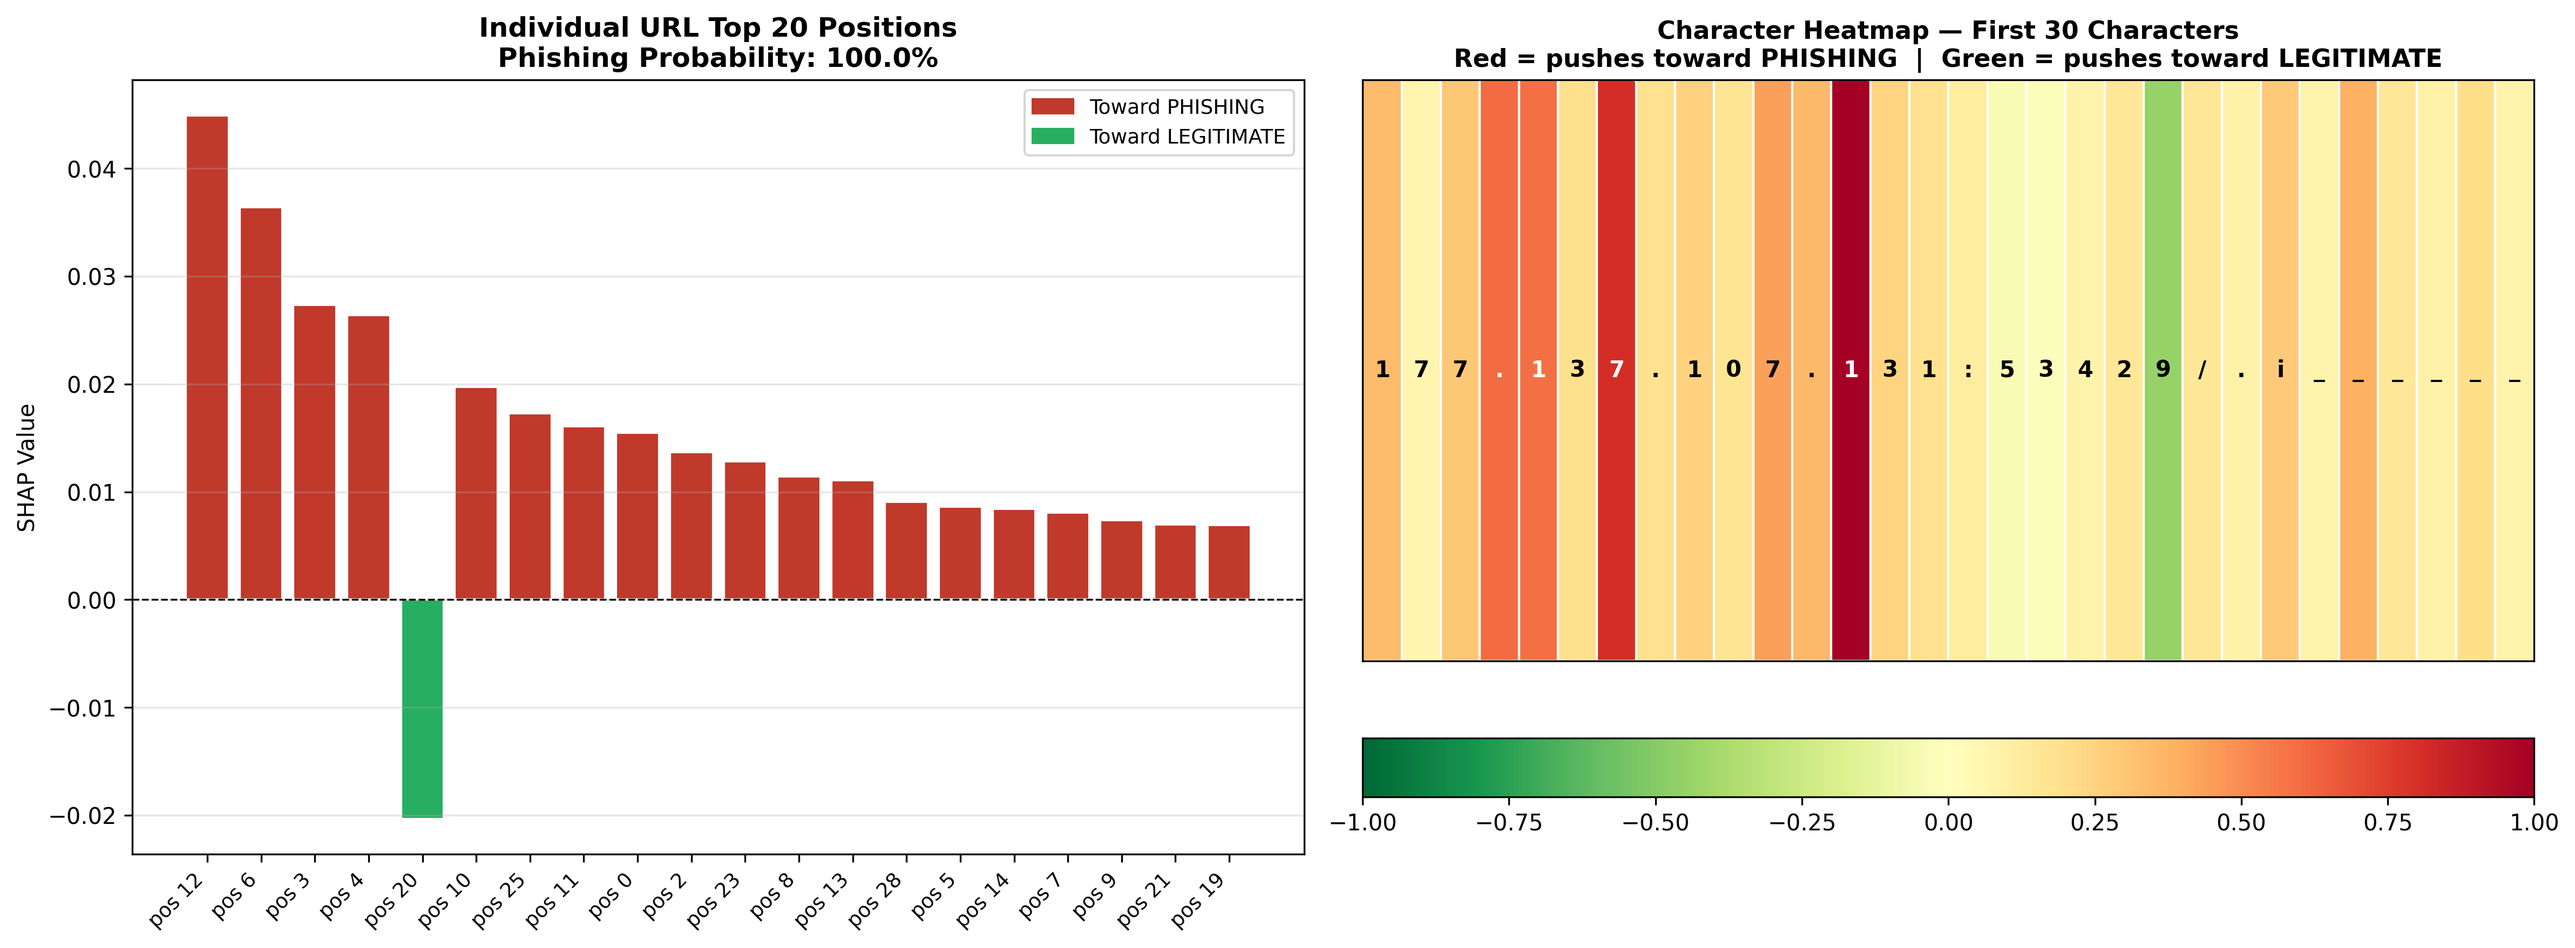
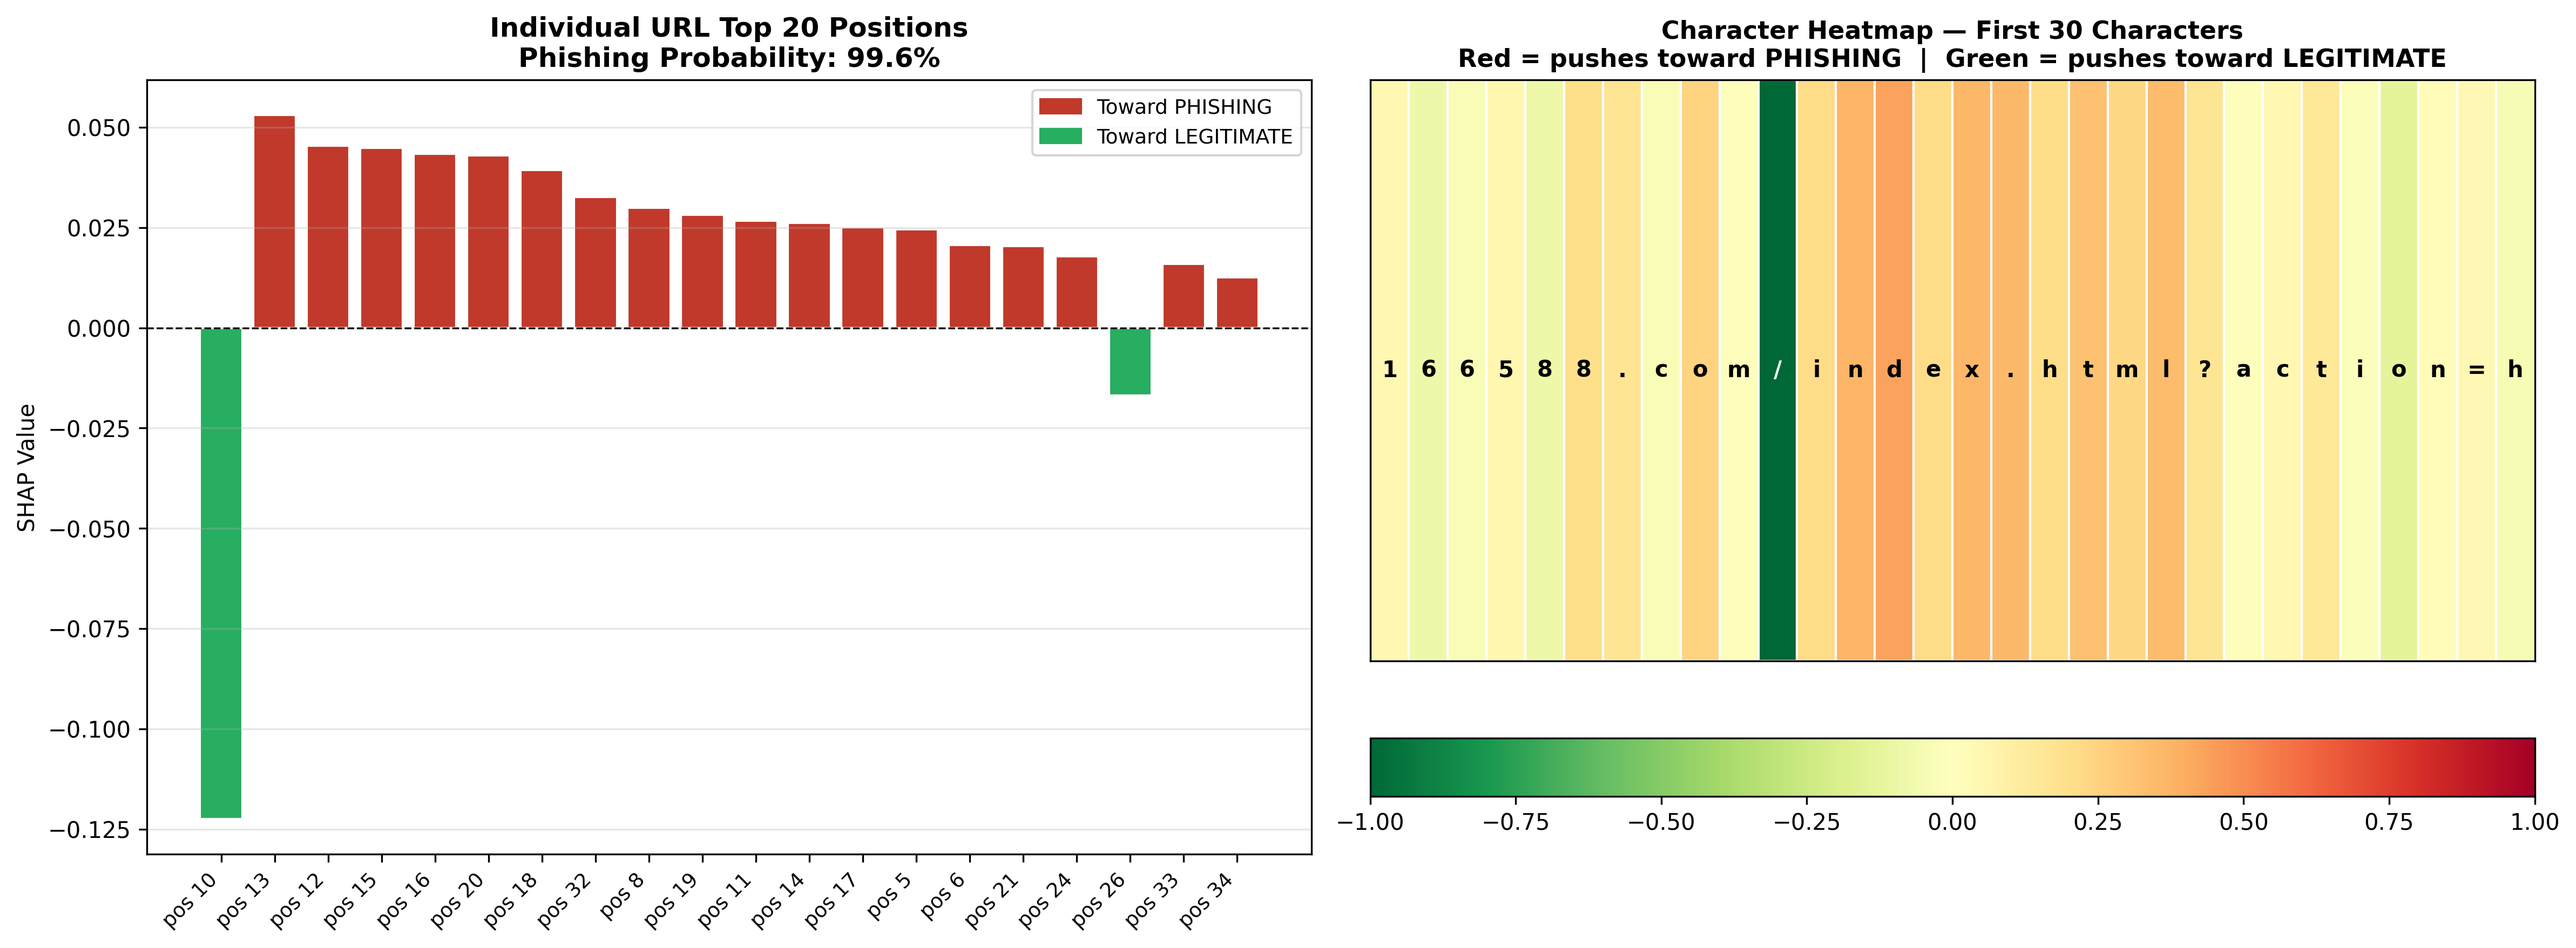
models rerun

diff --git a/shap_explainability.py b/shap_explainability.py
@@ -1,4 +1,8 @@
-import os, time
+
+#PhishGuard-GH — SHAP GradientExplainer
+
+
+import os, time, re
 import numpy as np
 import matplotlib
 matplotlib.use("Agg")
@@ -12,16 +16,30 @@ import json
 os.environ["TF_ENABLE_ONEDNN_OPTS"] = "0"
 os.environ["TF_CPP_MIN_LOG_LEVEL"] = "3"
 
-
 from keras.layers import (Input, Conv1D, MaxPooling1D, Bidirectional,
                           LSTM, Dense, Dropout, Concatenate)
 
 print("SHAP GradientExplainer")
 
-#Configuration
-N_EXPLAIN    = 200    # URLs to explain (increase to 100 if you have time)
-N_BACKGROUND = 200    # Background samples for SHAP (more = more accurate)
+# Configuration
+N_EXPLAIN    = 200
+N_BACKGROUND = 200
 MAX_LEN      = 200
+
+# Character decoding table (inverse of CHAR_TO_INT in train_hash.py)
+int_to_chr = {i - 31: chr(i) for i in range(32, 127)}
+
+
+def decode_seq(seq):
+    """Turn an integer-encoded sequence back into its URL string."""
+    return ''.join(int_to_chr.get(int(c), '') for c in seq if int(c) != 0)
+
+
+def is_ip_host(url):
+    """True if the URL's hostname is a bare IPv4 literal (scheme already stripped)."""
+    host = url.split('/')[0].split(':')[0]
+    return bool(re.fullmatch(r'\d{1,3}(\.\d{1,3}){3}', host))
+
 
 # Load saved files
 print("\n Loading saved files")
@@ -29,12 +47,11 @@ X_test     = np.load("X_test.npy")
 y_test     = np.load("y_test.npy")
 background = np.load("X_train_background.npy")[:N_BACKGROUND]
 y_prob     = np.load("y_prob.npy")
-# y_prob_sample is set after balanced_idx is built in step [4/7]
-y_prob_sample = None  # placeholder — assigned after balancing below
+y_prob_sample = None  # assigned after balancing below
 print(f"    X_test shape     : {X_test.shape}")
 print(f"    Background shape : {background.shape}")
 
-#Load original model
+# Load original model
 print("\n Loading model")
 if os.path.exists("phishguard_gh_model.keras"):
     original = keras.models.load_model("phishguard_gh_model.keras", compile=False)
@@ -42,7 +59,6 @@ else:
     original = keras.models.load_model("phishguard_gh_model.h5", compile=False)
 print(f"    Model input shape: {original.input_shape}")
 
-# Reference named layers
 emb_layer = original.get_layer("char_embedding")
 conv_k3   = original.get_layer("conv_k3")
 conv_k5   = original.get_layer("conv_k5")
@@ -51,11 +67,10 @@ bilstm    = original.get_layer("bilstm")
 dense64   = original.get_layer("dense64")
 out_layer = original.get_layer("output")
 
-EMBED_DIM = emb_layer.output_dim   # 64
+EMBED_DIM = emb_layer.output_dim
 print(f"    EMBED_DIM={EMBED_DIM}, MAX_LEN={MAX_LEN}")
 
-#Build float input model for SHAP
-# SHAP GradientExplainer needs to differentiate through the input.
+# Build float-input model for SHAP
 print("\nBuilding float input model for SHAP")
 emb_input = Input(shape=(MAX_LEN, EMBED_DIM), name="emb_input", dtype="float32")
 c3  = Conv1D(conv_k3.filters, conv_k3.kernel_size[0],
@@ -64,21 +79,23 @@ c5  = Conv1D(conv_k5.filters, conv_k5.kernel_size[0],
              activation="relu", padding="same", name="f_conv_k5")(emb_input)
 x   = Concatenate(name="f_merge")([c3, c5])
 x   = MaxPooling1D(pool_size=maxpool.pool_size[0], name="f_maxpool")(x)
-x   = Bidirectional(LSTM(64), name="f_bilstm")(x)   # 64 = LSTM units
-x   = Dropout(0.4, name="f_dropout")(x)
+# LSTM units read from the trained model so this stays correct if the
+# architecture is retuned again (currently 64).
+_lstm_units = bilstm.forward_layer.units
+x   = Bidirectional(LSTM(_lstm_units), name="f_bilstm")(x)
+x   = Dropout(0.5, name="f_dropout")(x)
 x   = Dense(dense64.units, activation="relu", name="f_dense64")(x)
 out = Dense(1, activation="sigmoid", name="f_output")(x)
 float_model = keras.Model(inputs=emb_input, outputs=out, name="PhishGuard_Float")
 
-# Copy weights from original model into float model
 float_model.get_layer("f_conv_k3").set_weights(conv_k3.get_weights())
 float_model.get_layer("f_conv_k5").set_weights(conv_k5.get_weights())
 float_model.get_layer("f_bilstm").set_weights(bilstm.get_weights())
 float_model.get_layer("f_dense64").set_weights(dense64.get_weights())
 float_model.get_layer("f_output").set_weights(out_layer.get_weights())
-print("    Float model built and weights copied")
+print(f"    Float model built (BiLSTM units = {_lstm_units}) and weights copied")
 
-# Verify the float model gives same predictions as original
+# Verify float model matches original
 emb_fn   = original.get_layer("char_embedding")
 sample5  = X_test[:5].astype(np.int32)
 emb5     = emb_fn(tf.constant(sample5, dtype=tf.int32)).numpy()
@@ -86,14 +103,11 @@ orig_p   = original.predict(X_test[:5].astype(np.float32), verbose=0).flatten()
 float_p  = float_model.predict(emb5, verbose=0).flatten()
 max_diff = float(np.max(np.abs(orig_p - float_p)))
 print(f"    Prediction match check (should be ~0): {max_diff:.8f}")
-if max_diff < 0.01:
-    print("    Float model verified correctly")
-else:
-    print("    WARNING: difference > 0.01 check weight copying")
+print("    Float model verified correctly" if max_diff < 0.01
+      else "    WARNING: difference > 0.01 — check weight copying")
 
-#Prepare SHAP inputs
+# Prepare SHAP inputs
 print("\nPreparing SHAP inputs...")
-# Select URLs to explain: balanced  half phishing, half legitimate
 half = N_EXPLAIN // 2
 phish_idx = np.where(y_test == 1)[0][:half]
 legit_idx = np.where(y_test == 0)[0][:half]
@@ -104,77 +118,64 @@ np.random.shuffle(balanced_idx)
 X_sample = X_test[balanced_idx].astype(np.int32)
 y_sample = y_test[balanced_idx]
 bg_ints  = background[:N_BACKGROUND].astype(np.int32)
-
-# Now that balanced_idx is known, assign y_prob_sample correctly
 y_prob_sample = y_prob[balanced_idx]
 print(f"    Balanced sample: {(y_sample==1).sum()} phishing, {(y_sample==0).sum()} legitimate")
 
-# Convert integer sequences to float embeddings
-# SHAP will receive float embeddings (shape: N, 200, 64)
 X_emb_explain = emb_fn(tf.constant(X_sample, dtype=tf.int32)).numpy().astype(np.float32)
 X_emb_bg      = emb_fn(tf.constant(bg_ints,  dtype=tf.int32)).numpy().astype(np.float32)
-
 print(f"    Explain input shape : {X_emb_explain.shape}")
 print(f"    Background shape    : {X_emb_bg.shape}")
 
-# Run SHAP GradientExplainer
+# Run SHAP
 print(f"\n Running SHAP GradientExplainer...")
 print(f"    Background: {N_BACKGROUND} samples")
-print(f"    URLs to explain: {N_EXPLAIN}")
-print(f"    Counter updates every URL\n")
-
+print(f"    URLs to explain: {N_EXPLAIN}\n")
 
 explainer = shap.GradientExplainer(float_model, X_emb_bg)
-
 shap_values_list = []
 start = time.time()
 
 for i in range(N_EXPLAIN):
-    single_emb = X_emb_explain[i:i+1]   # shape: (1, 200, 64)
-    # shap_values returns array of shape (1, 200, 64) — one value per embedding dimension
+    single_emb = X_emb_explain[i:i+1]
     sv = explainer.shap_values(single_emb)
     if isinstance(sv, list):
-        sv = sv[0]   # for binary classification take index 0
-    # Collapse the embedding dimension: sum over 64 dims → shape (200,)
-    sv_collapsed = sv[0].sum(axis=-1)    # (200,)
+        sv = sv[0]
+    sv_collapsed = np.asarray(sv)[0]
+    while sv_collapsed.ndim > 1:              # collapse embedding dims -> (200,)
+        sv_collapsed = sv_collapsed.sum(axis=-1)
     shap_values_list.append(sv_collapsed)
 
     elapsed   = (time.time() - start) / 60
-    remaining = elapsed / (i+1) * (N_EXPLAIN - i - 1)
-    print(f"    URL {i+1:2d}/{N_EXPLAIN} | elapsed {elapsed:.1f}m | remaining -{remaining:.1f}m")
+    remaining = elapsed / (i + 1) * (N_EXPLAIN - i - 1)
+    print(f"    URL {i+1:3d}/{N_EXPLAIN} | elapsed {elapsed:.1f}m | remaining {remaining:.1f}m")
 
-shap_values = np.array(shap_values_list)  # (N_EXPLAIN, 200)
+shap_values = np.array(shap_values_list)      # (N_EXPLAIN, 200)
 np.save("shap_values.npy", shap_values)
 print(f"\n    SHAP complete. Values shape: {shap_values.shape}")
 print(f"    Saved: shap_values.npy")
 
 # Summary chart
 print("\nSaving SHAP summary chart")
-
-# Force-collapse to exactly 2D (N_EXPLAIN, 200) in case SHAP returned extra dims
 sv_2d = shap_values
 while sv_2d.ndim > 2:
     sv_2d = sv_2d.sum(axis=-1)
 print(f"    shap_values shape after collapse: {sv_2d.shape}")
 
-mean_abs  = np.abs(sv_2d).mean(axis=0).flatten()   # guaranteed 1D (200,)
+mean_abs  = np.abs(sv_2d).mean(axis=0).flatten()
 top20_idx = np.argsort(mean_abs)[-20:][::-1]
-bar_data  = mean_abs[top20_idx][::-1].tolist()      # plain Python list
+bar_data  = mean_abs[top20_idx][::-1].tolist()
+mean_val  = float(mean_abs.mean())
 
 fig, ax = plt.subplots(figsize=(10, 7))
-
-# Colors as explicit list of RGBA tuples — avoids all numpy broadcast issues
 bar_colors = [plt.cm.Reds(float(v)) for v in np.linspace(0.4, 0.9, 20).tolist()]
-
-ax.barh(list(range(20)), bar_data,
-        color=bar_colors[::-1], edgecolor="white", linewidth=0.5)
+ax.barh(list(range(20)), bar_data, color=bar_colors[::-1],
+        edgecolor="white", linewidth=0.5)
 ax.set_yticks(list(range(20)))
 ax.set_yticklabels([f"Position {i}" for i in top20_idx[::-1]], fontsize=10)
 ax.set_xlabel("Mean |SHAP Value|", fontsize=11)
 ax.set_title("Top 20 Most Influential URL Character Positions\n"
              "PhishGuard-GH — SHAP GradientExplainer (Lundberg & Lee, 2017)",
              fontsize=13, fontweight="bold")
-mean_val = float(mean_abs.mean())
 ax.axvline(mean_val, color="steelblue", linestyle="--",
            linewidth=1.5, label=f"Mean: {mean_val:.5f}")
 ax.legend(fontsize=10)
@@ -182,21 +183,39 @@ ax.grid(axis="x", alpha=0.3)
 plt.tight_layout()
 plt.savefig("shap_summary.png", dpi=300, bbox_inches="tight")
 plt.close()
-print("    Saved: shap_summary.png ")
+print("    Saved: shap_summary.png")
 
-# Individual URL chart
+# Print the table the thesis needs (Table 4.5)
+print(f"\n  GLOBAL ATTRIBUTION SUMMARY (for Table 4.5)")
+print(f"    Global mean |SHAP| across all 200 positions: {mean_val:.5f}")
+print(f"    Top 5 positions:")
+for r, p in enumerate(top20_idx[:5], 1):
+    print(f"      Rank {r}: Position {p:3d} | mean |SHAP| = {mean_abs[p]:.5f} "
+          f"| {mean_abs[p]/mean_val:.1f}x global mean")
+
+
 print("\nSaving individual URL heatmap")
 
-ph_idx   = np.where(y_sample == 1)[0]
-best_idx = (ph_idx[np.argmax(y_prob_sample[ph_idx])]
-            if len(ph_idx) > 0 else 0)
-# Force ind_sv to be exactly 1D (200,) — collapse any extra dims from SHAP
+
+ph_idx = np.where(y_sample == 1)[0]
+domain_idx = [i for i in ph_idx if not is_ip_host(decode_seq(X_sample[i]))]
+
+if domain_idx:
+    best_idx = max(domain_idx, key=lambda i: y_prob_sample[i])
+    print(f"    Selection: highest-confidence phishing URL with a domain hostname "
+          f"({len(domain_idx)} of {len(ph_idx)} phishing URLs qualify)")
+else:
+    best_idx = int(ph_idx[np.argmax(y_prob_sample[ph_idx])]) if len(ph_idx) else 0
+    print("    WARNING: no domain-hosted phishing URL in sample; using overall maximum")
+
+case_url = decode_seq(X_sample[best_idx])
+print(f"    Case study URL : {case_url}")
+
 ind_sv = sv_2d[best_idx]
 while ind_sv.ndim > 1:
     ind_sv = ind_sv.sum(axis=-1)
-ind_sv = ind_sv.flatten()           # guaranteed 1D (200,)
+ind_sv = ind_sv.flatten()
 
-# Bar chart top 20 positions
 top20      = np.argsort(np.abs(ind_sv))[-20:][::-1]
 bar_colors = ["#C0392B" if v > 0 else "#27AE60" for v in ind_sv[top20]]
 
@@ -216,48 +235,51 @@ ax1.legend(handles=[
 ], fontsize=9)
 ax1.grid(axis="y", alpha=0.3)
 
-# Heatmap first 30 characters coloured by SHAP value
-int_to_chr = {i-31: chr(i) for i in range(32,127)}
-url_seq    = X_test[best_idx].astype(int)
-chars30    = [int_to_chr.get(int(c),"_") for c in url_seq[:30]]
-shap30     = ind_sv[:30]
-norm_shap  = shap30 / (np.abs(shap30).max() + 1e-8)
-cmap       = plt.cm.RdYlGn_r
+# FIXED: use X_sample (the explained sample), not X_test
+url_seq   = X_sample[best_idx].astype(int)
+chars30   = [int_to_chr.get(int(c), "_") for c in url_seq[:30]]
+shap30    = ind_sv[:30]
+norm_shap = shap30 / (np.abs(shap30).max() + 1e-8)
+cmap      = plt.cm.RdYlGn_r
 
-for i,(ch,val) in enumerate(zip(chars30, norm_shap)):
+for i, (ch, val) in enumerate(zip(chars30, norm_shap)):
     color = cmap((val + 1) / 2)
-    ax2.add_patch(plt.Rectangle((i,0), 1, 1, color=color, ec="white", lw=1))
-    ax2.text(i+0.5, 0.5, ch, ha="center", va="center", fontsize=10,
-             fontweight="bold", color="white" if abs(val)>0.5 else "black")
+    ax2.add_patch(plt.Rectangle((i, 0), 1, 1, color=color, ec="white", lw=1))
+    ax2.text(i + 0.5, 0.5, ch, ha="center", va="center", fontsize=10,
+             fontweight="bold", color="white" if abs(val) > 0.5 else "black")
 
-ax2.set_xlim(0,30); ax2.set_ylim(0,1)
+ax2.set_xlim(0, 30); ax2.set_ylim(0, 1)
 ax2.set_xticks([]); ax2.set_yticks([])
 ax2.set_title("Character Heatmap — First 30 Characters\n"
               "Red = pushes toward PHISHING  |  Green = pushes toward LEGITIMATE",
               fontsize=11, fontweight="bold")
-sm=plt.cm.ScalarMappable(cmap=cmap, norm=plt.Normalize(vmin=-1,vmax=1))
-sm.set_array([]); plt.colorbar(sm, ax=ax2, orientation="horizontal", pad=0.1)
+sm = plt.cm.ScalarMappable(cmap=cmap, norm=plt.Normalize(vmin=-1, vmax=1))
+sm.set_array([])
+plt.colorbar(sm, ax=ax2, orientation="horizontal", pad=0.1)
 plt.tight_layout()
 plt.savefig("shap_individual.png", dpi=300, bbox_inches="tight")
 plt.close()
 print("    Saved: shap_individual.png")
 
-# Print results
+# Case-study summary
 top5      = np.argsort(np.abs(ind_sv))[-5:][::-1]
-chars_all = [int_to_chr.get(int(url_seq[i]),"?") for i in range(len(url_seq))]
+chars_all = [int_to_chr.get(int(c), "?") for c in url_seq]
 
-
-print(f"  Method     : shap.GradientExplainer")
-print(f"  Verdict    : {'PHISHING' if y_prob_sample[best_idx]>=0.5 else 'LEGITIMATE'}")
-print(f"  Confidence : {y_prob_sample[best_idx]*100:.2f}%")
-print(f"\n  Top 5 most influential character positions:")
+print(f"\n  CASE STUDY SUMMARY (for Section 4.4.2)")
+print(f"    Method     : shap.GradientExplainer")
+print(f"    URL        : {case_url}")
+print(f"    Verdict    : {'PHISHING' if y_prob_sample[best_idx] >= 0.5 else 'LEGITIMATE'}")
+print(f"    True label : {'PHISHING' if y_sample[best_idx] == 1 else 'LEGITIMATE'}")
+print(f"    Confidence : {y_prob_sample[best_idx]*100:.2f}%")
+print(f"\n    Top 5 most influential character positions:")
 for i in range(5):
-    p   = top5[i]
+    p   = int(top5[i])
     ch  = chars_all[p] if p < len(chars_all) else "?"
     val = ind_sv[p]
-    direction = "-> PHISHING" if val>0 else "-> LEGITIMATE"
-    print(f"    pos {p:3d} | char='{ch}' | SHAP={val:+.4f} | {direction}")
+    print(f"      pos {p:3d} | char='{ch}' | SHAP={val:+.4f} | "
+          f"{'-> PHISHING' if val > 0 else '-> LEGITIMATE'}")
+
 print("\n  Output files:")
-print("    shap_summary.png ")
+print("    shap_summary.png")
 print("    shap_individual.png")
 print("    shap_values.npy")
